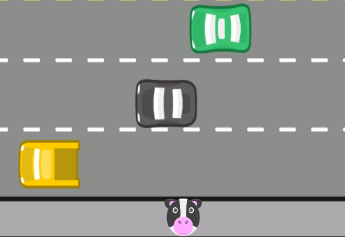
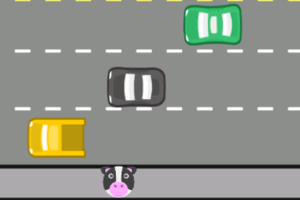
Redimensionando imagens

diff --git a/index.html b/index.html
@@ -15,11 +15,6 @@
       rel="stylesheet"
       href="https://cdn.jsdelivr.net/gh/devicons/devicon@v2.15.1/devicon.min.css"
     />
-    <!-- SwiperJs-->
-    <link
-      rel="stylesheet"
-      href="https://cdn.jsdelivr.net/npm/swiper@9/swiper-bundle.min.css"
-    />
     <!-- CSS -->
     <link rel="stylesheet" href="./css/style.css" />
   </head>
@@ -39,9 +34,9 @@
           <ion-icon class="btn-close hidden" name="close-sharp"></ion-icon>
         </button>
         <ul class="menu">
-          <li><a href="#skills">Conhecimento</a></li>
-          <li><a href="#projects">Projetos</a></li>
-          <li><a href="#contato">Contato</a></li>
+          <li><a href="#conhecimentos">Conhecimento</a></li>
+          <li><a href="#projetos">Projetos</a></li>
+          <li><a href="#contatos">Contato</a></li>
         </ul>
       </nav>
     </header>
@@ -71,117 +66,112 @@
           </article>
         </div>
       </section>
-      <a name="skills">
-        <section class="skills">
-          <h2>Conhecimento</h2>
-          <div class="skills-img">
-            <svg viewBox="0 0 128 128">
+      <section id="conhecimentos" class="skills">
+        <h2>Conhecimento</h2>
+        <div class="skills-img">
+          <svg viewBox="0 0 128 128">
+            <path
+              fill="#E44D26"
+              d="M19.037 113.876L9.032 1.661h109.936l-10.016 112.198-45.019 12.48z"
+            ></path>
+            <path
+              fill="#F16529"
+              d="M64 116.8l36.378-10.086 8.559-95.878H64z"
+            ></path>
+            <path
+              fill="#EBEBEB"
+              d="M64 52.455H45.788L44.53 38.361H64V24.599H29.489l.33 3.692 3.382 37.927H64zm0 35.743l-.061.017-15.327-4.14-.979-10.975H33.816l1.928 21.609 28.193 7.826.063-.017z"
+            ></path>
+            <path
+              fill="#fff"
+              d="M63.952 52.455v13.763h16.947l-1.597 17.849-15.35 4.143v14.319l28.215-7.82.207-2.325 3.234-36.233.335-3.696h-3.708zm0-27.856v13.762h33.244l.276-3.092.628-6.978.329-3.692z"
+            ></path>
+          </svg>
+          <svg viewBox="0 0 128 128">
+            <path
+              fill="#1572B6"
+              d="M18.814 114.123L8.76 1.352h110.48l-10.064 112.754-45.243 12.543-45.119-12.526z"
+            ></path>
+            <path
+              fill="#33A9DC"
+              d="M64.001 117.062l36.559-10.136 8.601-96.354h-45.16v106.49z"
+            ></path>
+            <path
+              fill="#fff"
+              d="M64.001 51.429h18.302l1.264-14.163H64.001V23.435h34.682l-.332 3.711-3.4 38.114h-30.95V51.429z"
+            ></path>
+            <path
+              fill="#EBEBEB"
+              d="M64.083 87.349l-.061.018-15.403-4.159-.985-11.031H33.752l1.937 21.717 28.331 7.863.063-.018v-14.39z"
+            ></path>
+            <path
+              fill="#fff"
+              d="M81.127 64.675l-1.666 18.522-15.426 4.164v14.39l28.354-7.858.208-2.337 2.406-26.881H81.127z"
+            ></path>
+            <path
+              fill="#EBEBEB"
+              d="M64.048 23.435v13.831H30.64l-.277-3.108-.63-7.012-.331-3.711h34.646zm-.047 27.996v13.831H48.792l-.277-3.108-.631-7.012-.33-3.711h16.447z"
+            ></path>
+          </svg>
+          <svg viewBox="0 0 128 128">
+            <path fill="#F0DB4F" d="M1.408 1.408h125.184v125.185H1.408z"></path>
+            <path
+              fill="#323330"
+              d="M116.347 96.736c-.917-5.711-4.641-10.508-15.672-14.981-3.832-1.761-8.104-3.022-9.377-5.926-.452-1.69-.512-2.642-.226-3.665.821-3.32 4.784-4.355 7.925-3.403 2.023.678 3.938 2.237 5.093 4.724 5.402-3.498 5.391-3.475 9.163-5.879-1.381-2.141-2.118-3.129-3.022-4.045-3.249-3.629-7.676-5.498-14.756-5.355l-3.688.477c-3.534.893-6.902 2.748-8.877 5.235-5.926 6.724-4.236 18.492 2.975 23.335 7.104 5.332 17.54 6.545 18.873 11.531 1.297 6.104-4.486 8.08-10.234 7.378-4.236-.881-6.592-3.034-9.139-6.949-4.688 2.713-4.688 2.713-9.508 5.485 1.143 2.499 2.344 3.63 4.26 5.795 9.068 9.198 31.76 8.746 35.83-5.176.165-.478 1.261-3.666.38-8.581zM69.462 58.943H57.753l-.048 30.272c0 6.438.333 12.34-.714 14.149-1.713 3.558-6.152 3.117-8.175 2.427-2.059-1.012-3.106-2.451-4.319-4.485-.333-.584-.583-1.036-.667-1.071l-9.52 5.83c1.583 3.249 3.915 6.069 6.902 7.901 4.462 2.678 10.459 3.499 16.731 2.059 4.082-1.189 7.604-3.652 9.448-7.401 2.666-4.915 2.094-10.864 2.07-17.444.06-10.735.001-21.468.001-32.237z"
+            ></path>
+          </svg>
+          <svg viewBox="0 0 128 128">
+            <g fill="#61DAFB">
+              <circle cx="64" cy="64" r="11.4"></circle>
               <path
-                fill="#E44D26"
-                d="M19.037 113.876L9.032 1.661h109.936l-10.016 112.198-45.019 12.48z"
+                d="M107.3 45.2c-2.2-.8-4.5-1.6-6.9-2.3.6-2.4 1.1-4.8 1.5-7.1 2.1-13.2-.2-22.5-6.6-26.1-1.9-1.1-4-1.6-6.4-1.6-7 0-15.9 5.2-24.9 13.9-9-8.7-17.9-13.9-24.9-13.9-2.4 0-4.5.5-6.4 1.6-6.4 3.7-8.7 13-6.6 26.1.4 2.3.9 4.7 1.5 7.1-2.4.7-4.7 1.4-6.9 2.3C8.2 50 1.4 56.6 1.4 64s6.9 14 19.3 18.8c2.2.8 4.5 1.6 6.9 2.3-.6 2.4-1.1 4.8-1.5 7.1-2.1 13.2.2 22.5 6.6 26.1 1.9 1.1 4 1.6 6.4 1.6 7.1 0 16-5.2 24.9-13.9 9 8.7 17.9 13.9 24.9 13.9 2.4 0 4.5-.5 6.4-1.6 6.4-3.7 8.7-13 6.6-26.1-.4-2.3-.9-4.7-1.5-7.1 2.4-.7 4.7-1.4 6.9-2.3 12.5-4.8 19.3-11.4 19.3-18.8s-6.8-14-19.3-18.8zM92.5 14.7c4.1 2.4 5.5 9.8 3.8 20.3-.3 2.1-.8 4.3-1.4 6.6-5.2-1.2-10.7-2-16.5-2.5-3.4-4.8-6.9-9.1-10.4-13 7.4-7.3 14.9-12.3 21-12.3 1.3 0 2.5.3 3.5.9zM81.3 74c-1.8 3.2-3.9 6.4-6.1 9.6-3.7.3-7.4.4-11.2.4-3.9 0-7.6-.1-11.2-.4-2.2-3.2-4.2-6.4-6-9.6-1.9-3.3-3.7-6.7-5.3-10 1.6-3.3 3.4-6.7 5.3-10 1.8-3.2 3.9-6.4 6.1-9.6 3.7-.3 7.4-.4 11.2-.4 3.9 0 7.6.1 11.2.4 2.2 3.2 4.2 6.4 6 9.6 1.9 3.3 3.7 6.7 5.3 10-1.7 3.3-3.4 6.6-5.3 10zm8.3-3.3c1.5 3.5 2.7 6.9 3.8 10.3-3.4.8-7 1.4-10.8 1.9 1.2-1.9 2.5-3.9 3.6-6 1.2-2.1 2.3-4.2 3.4-6.2zM64 97.8c-2.4-2.6-4.7-5.4-6.9-8.3 2.3.1 4.6.2 6.9.2 2.3 0 4.6-.1 6.9-.2-2.2 2.9-4.5 5.7-6.9 8.3zm-18.6-15c-3.8-.5-7.4-1.1-10.8-1.9 1.1-3.3 2.3-6.8 3.8-10.3 1.1 2 2.2 4.1 3.4 6.1 1.2 2.2 2.4 4.1 3.6 6.1zm-7-25.5c-1.5-3.5-2.7-6.9-3.8-10.3 3.4-.8 7-1.4 10.8-1.9-1.2 1.9-2.5 3.9-3.6 6-1.2 2.1-2.3 4.2-3.4 6.2zM64 30.2c2.4 2.6 4.7 5.4 6.9 8.3-2.3-.1-4.6-.2-6.9-.2-2.3 0-4.6.1-6.9.2 2.2-2.9 4.5-5.7 6.9-8.3zm22.2 21l-3.6-6c3.8.5 7.4 1.1 10.8 1.9-1.1 3.3-2.3 6.8-3.8 10.3-1.1-2.1-2.2-4.2-3.4-6.2zM31.7 35c-1.7-10.5-.3-17.9 3.8-20.3 1-.6 2.2-.9 3.5-.9 6 0 13.5 4.9 21 12.3-3.5 3.8-7 8.2-10.4 13-5.8.5-11.3 1.4-16.5 2.5-.6-2.3-1-4.5-1.4-6.6zM7 64c0-4.7 5.7-9.7 15.7-13.4 2-.8 4.2-1.5 6.4-2.1 1.6 5 3.6 10.3 6 15.6-2.4 5.3-4.5 10.5-6 15.5C15.3 75.6 7 69.6 7 64zm28.5 49.3c-4.1-2.4-5.5-9.8-3.8-20.3.3-2.1.8-4.3 1.4-6.6 5.2 1.2 10.7 2 16.5 2.5 3.4 4.8 6.9 9.1 10.4 13-7.4 7.3-14.9 12.3-21 12.3-1.3 0-2.5-.3-3.5-.9zM96.3 93c1.7 10.5.3 17.9-3.8 20.3-1 .6-2.2.9-3.5.9-6 0-13.5-4.9-21-12.3 3.5-3.8 7-8.2 10.4-13 5.8-.5 11.3-1.4 16.5-2.5.6 2.3 1 4.5 1.4 6.6zm9-15.6c-2 .8-4.2 1.5-6.4 2.1-1.6-5-3.6-10.3-6-15.6 2.4-5.3 4.5-10.5 6-15.5 13.8 4 22.1 10 22.1 15.6 0 4.7-5.8 9.7-15.7 13.4z"
               ></path>
-              <path
-                fill="#F16529"
-                d="M64 116.8l36.378-10.086 8.559-95.878H64z"
-              ></path>
-              <path
-                fill="#EBEBEB"
-                d="M64 52.455H45.788L44.53 38.361H64V24.599H29.489l.33 3.692 3.382 37.927H64zm0 35.743l-.061.017-15.327-4.14-.979-10.975H33.816l1.928 21.609 28.193 7.826.063-.017z"
-              ></path>
-              <path
-                fill="#fff"
-                d="M63.952 52.455v13.763h16.947l-1.597 17.849-15.35 4.143v14.319l28.215-7.82.207-2.325 3.234-36.233.335-3.696h-3.708zm0-27.856v13.762h33.244l.276-3.092.628-6.978.329-3.692z"
-              ></path>
-            </svg>
-            <svg viewBox="0 0 128 128">
-              <path
-                fill="#1572B6"
-                d="M18.814 114.123L8.76 1.352h110.48l-10.064 112.754-45.243 12.543-45.119-12.526z"
-              ></path>
-              <path
-                fill="#33A9DC"
-                d="M64.001 117.062l36.559-10.136 8.601-96.354h-45.16v106.49z"
-              ></path>
-              <path
-                fill="#fff"
-                d="M64.001 51.429h18.302l1.264-14.163H64.001V23.435h34.682l-.332 3.711-3.4 38.114h-30.95V51.429z"
-              ></path>
-              <path
-                fill="#EBEBEB"
-                d="M64.083 87.349l-.061.018-15.403-4.159-.985-11.031H33.752l1.937 21.717 28.331 7.863.063-.018v-14.39z"
-              ></path>
-              <path
-                fill="#fff"
-                d="M81.127 64.675l-1.666 18.522-15.426 4.164v14.39l28.354-7.858.208-2.337 2.406-26.881H81.127z"
-              ></path>
-              <path
-                fill="#EBEBEB"
-                d="M64.048 23.435v13.831H30.64l-.277-3.108-.63-7.012-.331-3.711h34.646zm-.047 27.996v13.831H48.792l-.277-3.108-.631-7.012-.33-3.711h16.447z"
-              ></path>
-            </svg>
-            <svg viewBox="0 0 128 128">
-              <path
-                fill="#F0DB4F"
-                d="M1.408 1.408h125.184v125.185H1.408z"
-              ></path>
-              <path
-                fill="#323330"
-                d="M116.347 96.736c-.917-5.711-4.641-10.508-15.672-14.981-3.832-1.761-8.104-3.022-9.377-5.926-.452-1.69-.512-2.642-.226-3.665.821-3.32 4.784-4.355 7.925-3.403 2.023.678 3.938 2.237 5.093 4.724 5.402-3.498 5.391-3.475 9.163-5.879-1.381-2.141-2.118-3.129-3.022-4.045-3.249-3.629-7.676-5.498-14.756-5.355l-3.688.477c-3.534.893-6.902 2.748-8.877 5.235-5.926 6.724-4.236 18.492 2.975 23.335 7.104 5.332 17.54 6.545 18.873 11.531 1.297 6.104-4.486 8.08-10.234 7.378-4.236-.881-6.592-3.034-9.139-6.949-4.688 2.713-4.688 2.713-9.508 5.485 1.143 2.499 2.344 3.63 4.26 5.795 9.068 9.198 31.76 8.746 35.83-5.176.165-.478 1.261-3.666.38-8.581zM69.462 58.943H57.753l-.048 30.272c0 6.438.333 12.34-.714 14.149-1.713 3.558-6.152 3.117-8.175 2.427-2.059-1.012-3.106-2.451-4.319-4.485-.333-.584-.583-1.036-.667-1.071l-9.52 5.83c1.583 3.249 3.915 6.069 6.902 7.901 4.462 2.678 10.459 3.499 16.731 2.059 4.082-1.189 7.604-3.652 9.448-7.401 2.666-4.915 2.094-10.864 2.07-17.444.06-10.735.001-21.468.001-32.237z"
-              ></path>
-            </svg>
-            <svg viewBox="0 0 128 128">
-              <g fill="#61DAFB">
-                <circle cx="64" cy="64" r="11.4"></circle>
-                <path
-                  d="M107.3 45.2c-2.2-.8-4.5-1.6-6.9-2.3.6-2.4 1.1-4.8 1.5-7.1 2.1-13.2-.2-22.5-6.6-26.1-1.9-1.1-4-1.6-6.4-1.6-7 0-15.9 5.2-24.9 13.9-9-8.7-17.9-13.9-24.9-13.9-2.4 0-4.5.5-6.4 1.6-6.4 3.7-8.7 13-6.6 26.1.4 2.3.9 4.7 1.5 7.1-2.4.7-4.7 1.4-6.9 2.3C8.2 50 1.4 56.6 1.4 64s6.9 14 19.3 18.8c2.2.8 4.5 1.6 6.9 2.3-.6 2.4-1.1 4.8-1.5 7.1-2.1 13.2.2 22.5 6.6 26.1 1.9 1.1 4 1.6 6.4 1.6 7.1 0 16-5.2 24.9-13.9 9 8.7 17.9 13.9 24.9 13.9 2.4 0 4.5-.5 6.4-1.6 6.4-3.7 8.7-13 6.6-26.1-.4-2.3-.9-4.7-1.5-7.1 2.4-.7 4.7-1.4 6.9-2.3 12.5-4.8 19.3-11.4 19.3-18.8s-6.8-14-19.3-18.8zM92.5 14.7c4.1 2.4 5.5 9.8 3.8 20.3-.3 2.1-.8 4.3-1.4 6.6-5.2-1.2-10.7-2-16.5-2.5-3.4-4.8-6.9-9.1-10.4-13 7.4-7.3 14.9-12.3 21-12.3 1.3 0 2.5.3 3.5.9zM81.3 74c-1.8 3.2-3.9 6.4-6.1 9.6-3.7.3-7.4.4-11.2.4-3.9 0-7.6-.1-11.2-.4-2.2-3.2-4.2-6.4-6-9.6-1.9-3.3-3.7-6.7-5.3-10 1.6-3.3 3.4-6.7 5.3-10 1.8-3.2 3.9-6.4 6.1-9.6 3.7-.3 7.4-.4 11.2-.4 3.9 0 7.6.1 11.2.4 2.2 3.2 4.2 6.4 6 9.6 1.9 3.3 3.7 6.7 5.3 10-1.7 3.3-3.4 6.6-5.3 10zm8.3-3.3c1.5 3.5 2.7 6.9 3.8 10.3-3.4.8-7 1.4-10.8 1.9 1.2-1.9 2.5-3.9 3.6-6 1.2-2.1 2.3-4.2 3.4-6.2zM64 97.8c-2.4-2.6-4.7-5.4-6.9-8.3 2.3.1 4.6.2 6.9.2 2.3 0 4.6-.1 6.9-.2-2.2 2.9-4.5 5.7-6.9 8.3zm-18.6-15c-3.8-.5-7.4-1.1-10.8-1.9 1.1-3.3 2.3-6.8 3.8-10.3 1.1 2 2.2 4.1 3.4 6.1 1.2 2.2 2.4 4.1 3.6 6.1zm-7-25.5c-1.5-3.5-2.7-6.9-3.8-10.3 3.4-.8 7-1.4 10.8-1.9-1.2 1.9-2.5 3.9-3.6 6-1.2 2.1-2.3 4.2-3.4 6.2zM64 30.2c2.4 2.6 4.7 5.4 6.9 8.3-2.3-.1-4.6-.2-6.9-.2-2.3 0-4.6.1-6.9.2 2.2-2.9 4.5-5.7 6.9-8.3zm22.2 21l-3.6-6c3.8.5 7.4 1.1 10.8 1.9-1.1 3.3-2.3 6.8-3.8 10.3-1.1-2.1-2.2-4.2-3.4-6.2zM31.7 35c-1.7-10.5-.3-17.9 3.8-20.3 1-.6 2.2-.9 3.5-.9 6 0 13.5 4.9 21 12.3-3.5 3.8-7 8.2-10.4 13-5.8.5-11.3 1.4-16.5 2.5-.6-2.3-1-4.5-1.4-6.6zM7 64c0-4.7 5.7-9.7 15.7-13.4 2-.8 4.2-1.5 6.4-2.1 1.6 5 3.6 10.3 6 15.6-2.4 5.3-4.5 10.5-6 15.5C15.3 75.6 7 69.6 7 64zm28.5 49.3c-4.1-2.4-5.5-9.8-3.8-20.3.3-2.1.8-4.3 1.4-6.6 5.2 1.2 10.7 2 16.5 2.5 3.4 4.8 6.9 9.1 10.4 13-7.4 7.3-14.9 12.3-21 12.3-1.3 0-2.5-.3-3.5-.9zM96.3 93c1.7 10.5.3 17.9-3.8 20.3-1 .6-2.2.9-3.5.9-6 0-13.5-4.9-21-12.3 3.5-3.8 7-8.2 10.4-13 5.8-.5 11.3-1.4 16.5-2.5.6 2.3 1 4.5 1.4 6.6zm9-15.6c-2 .8-4.2 1.5-6.4 2.1-1.6-5-3.6-10.3-6-15.6 2.4-5.3 4.5-10.5 6-15.5 13.8 4 22.1 10 22.1 15.6 0 4.7-5.8 9.7-15.7 13.4z"
-                ></path>
-              </g>
-            </svg>
-            <svg viewBox="0 0 128 128">
-              <path
-                fill="#83CD29"
-                d="M112.771 30.334L68.674 4.729c-2.781-1.584-6.402-1.584-9.205 0L14.901 30.334C12.031 31.985 10 35.088 10 38.407v51.142c0 3.319 2.084 6.423 4.954 8.083l11.775 6.688c5.628 2.772 7.617 2.772 10.178 2.772 8.333 0 13.093-5.039 13.093-13.828v-50.49c0-.713-.371-1.774-1.071-1.774h-5.623C42.594 41 41 42.061 41 42.773v50.49c0 3.896-3.524 7.773-10.11 4.48L18.723 90.73c-.424-.23-.723-.693-.723-1.181V38.407c0-.482.555-.966.982-1.213l44.424-25.561c.415-.235 1.025-.235 1.439 0l43.882 25.555c.42.253.272.722.272 1.219v51.142c0 .488.183.963-.232 1.198l-44.086 25.576c-.378.227-.847.227-1.261 0l-11.307-6.749c-.341-.198-.746-.269-1.073-.086-3.146 1.783-3.726 2.02-6.677 3.043-.726.253-1.797.692.41 1.929l14.798 8.754a9.294 9.294 0 004.647 1.246c1.642 0 3.25-.426 4.667-1.246l43.885-25.582c2.87-1.672 4.23-4.764 4.23-8.083V38.407c0-3.319-1.36-6.414-4.229-8.073zM77.91 81.445c-11.726 0-14.309-3.235-15.17-9.066-.1-.628-.633-1.379-1.272-1.379h-5.731c-.709 0-1.279.86-1.279 1.566 0 7.466 4.059 16.512 23.453 16.512 14.039 0 22.088-5.455 22.088-15.109 0-9.572-6.467-12.084-20.082-13.886-13.762-1.819-15.16-2.738-15.16-5.962 0-2.658 1.184-6.203 11.374-6.203 9.105 0 12.461 1.954 13.842 8.091.118.577.645.991 1.24.991h5.754c.354 0 .692-.143.94-.396.24-.272.367-.613.335-.979-.891-10.568-7.912-15.493-22.112-15.493-12.631 0-20.166 5.334-20.166 14.275 0 9.698 7.497 12.378 19.622 13.577 14.505 1.422 15.633 3.542 15.633 6.395 0 4.955-3.978 7.066-13.309 7.066z"
-              ></path>
-            </svg>
-            <svg viewBox="0 0 128 128">
-              <defs>
-                <linearGradient
-                  id="sqlite-original-a"
-                  x1="-15.615"
-                  x2="-6.741"
-                  y1="-9.108"
-                  y2="-9.108"
-                  gradientTransform="rotate(90 -90.486 64.634) scale(9.2712)"
-                  gradientUnits="userSpaceOnUse"
-                >
-                  <stop stop-color="#95d7f4" offset="0"></stop>
-                  <stop stop-color="#0f7fcc" offset=".92"></stop>
-                  <stop stop-color="#0f7fcc" offset="1"></stop>
-                </linearGradient>
-              </defs>
-              <path
-                d="M69.5 99.176c-.059-.73-.094-1.2-.094-1.2S67.2 83.087 64.57 78.642c-.414-.707.043-3.594 1.207-7.88.68 1.169 3.54 6.192 4.118 7.81.648 1.824.78 2.347.78 2.347s-1.57-8.082-4.144-12.797a162.286 162.286 0 012.004-6.265c.973 1.71 3.313 5.859 3.828 7.3.102.293.192.543.27.774.023-.137.05-.274.074-.414-.59-2.504-1.75-6.86-3.336-10.082 3.52-18.328 15.531-42.824 27.84-53.754H16.9c-5.387 0-9.789 4.406-9.789 9.789v88.57c0 5.383 4.406 9.789 9.79 9.789h52.897a118.657 118.657 0 01-.297-14.652"
-                fill="#0b7fcc"
-              ></path>
-              <path
-                d="M65.777 70.762c.68 1.168 3.54 6.188 4.117 7.809.649 1.824.781 2.347.781 2.347s-1.57-8.082-4.144-12.797a164.535 164.535 0 012.004-6.27c.887 1.567 2.922 5.169 3.652 6.872l.082-.961c-.648-2.496-1.633-5.766-2.898-8.328 3.242-16.871 13.68-38.97 24.926-50.898H16.899a6.94 6.94 0 00-6.934 6.933v82.11c17.527-6.731 38.664-12.88 56.855-12.614-.672-2.605-1.441-4.96-2.25-6.324-.414-.707.043-3.597 1.207-7.879"
-                fill="url(#sqlite-original-a)"
-              ></path>
-              <path
-                d="M115.95 2.781c-5.5-4.906-12.164-2.933-18.734 2.899a44.347 44.347 0 00-2.914 2.859c-11.25 11.926-21.684 34.023-24.926 50.895 1.262 2.563 2.25 5.832 2.894 8.328.168.64.32 1.242.442 1.754.285 1.207.437 1.996.437 1.996s-.101-.383-.515-1.582c-.078-.23-.168-.484-.27-.773-.043-.125-.105-.274-.172-.434-.734-1.703-2.765-5.305-3.656-6.867-.762 2.25-1.437 4.36-2.004 6.265 2.578 4.715 4.149 12.797 4.149 12.797s-.137-.523-.782-2.347c-.578-1.621-3.441-6.64-4.117-7.809-1.164 4.281-1.625 7.172-1.207 7.88.809 1.362 1.574 3.722 2.25 6.323 1.524 5.867 2.586 13.012 2.586 13.012s.031.469.094 1.2a118.653 118.653 0 00.297 14.651c.504 6.11 1.453 11.363 2.664 14.172l.828-.449c-1.781-5.535-2.504-12.793-2.188-21.156.48-12.793 3.422-28.215 8.856-44.289 9.191-24.27 21.938-43.738 33.602-53.035-10.633 9.602-25.023 40.684-29.332 52.195-4.82 12.891-8.238 24.984-10.301 36.574 3.55-10.863 15.047-15.53 15.047-15.53s5.637-6.958 12.227-16.888c-3.95.903-10.43 2.442-12.598 3.352-3.2 1.344-4.067 1.8-4.067 1.8s10.371-6.312 19.27-9.171c12.234-19.27 25.562-46.648 12.141-58.621"
-                fill="#003956"
-              ></path>
-            </svg>
-            <svg viewBox="0 0 128 128">
-              <path
-                fill="#F34F29"
-                d="M124.737 58.378L69.621 3.264c-3.172-3.174-8.32-3.174-11.497 0L46.68 14.71l14.518 14.518c3.375-1.139 7.243-.375 9.932 2.314 2.703 2.706 3.461 6.607 2.294 9.993l13.992 13.993c3.385-1.167 7.292-.413 9.994 2.295 3.78 3.777 3.78 9.9 0 13.679a9.673 9.673 0 01-13.683 0 9.677 9.677 0 01-2.105-10.521L68.574 47.933l-.002 34.341a9.708 9.708 0 012.559 1.828c3.778 3.777 3.778 9.898 0 13.683-3.779 3.777-9.904 3.777-13.679 0-3.778-3.784-3.778-9.905 0-13.683a9.65 9.65 0 013.167-2.11V47.333a9.581 9.581 0 01-3.167-2.111c-2.862-2.86-3.551-7.06-2.083-10.576L41.056 20.333 3.264 58.123a8.133 8.133 0 000 11.5l55.117 55.114c3.174 3.174 8.32 3.174 11.499 0l54.858-54.858a8.135 8.135 0 00-.001-11.501z"
-              ></path>
-            </svg>
-          </div>
-        </section>
-      </a>
-      <section class="projects">
+            </g>
+          </svg>
+          <svg viewBox="0 0 128 128">
+            <path
+              fill="#83CD29"
+              d="M112.771 30.334L68.674 4.729c-2.781-1.584-6.402-1.584-9.205 0L14.901 30.334C12.031 31.985 10 35.088 10 38.407v51.142c0 3.319 2.084 6.423 4.954 8.083l11.775 6.688c5.628 2.772 7.617 2.772 10.178 2.772 8.333 0 13.093-5.039 13.093-13.828v-50.49c0-.713-.371-1.774-1.071-1.774h-5.623C42.594 41 41 42.061 41 42.773v50.49c0 3.896-3.524 7.773-10.11 4.48L18.723 90.73c-.424-.23-.723-.693-.723-1.181V38.407c0-.482.555-.966.982-1.213l44.424-25.561c.415-.235 1.025-.235 1.439 0l43.882 25.555c.42.253.272.722.272 1.219v51.142c0 .488.183.963-.232 1.198l-44.086 25.576c-.378.227-.847.227-1.261 0l-11.307-6.749c-.341-.198-.746-.269-1.073-.086-3.146 1.783-3.726 2.02-6.677 3.043-.726.253-1.797.692.41 1.929l14.798 8.754a9.294 9.294 0 004.647 1.246c1.642 0 3.25-.426 4.667-1.246l43.885-25.582c2.87-1.672 4.23-4.764 4.23-8.083V38.407c0-3.319-1.36-6.414-4.229-8.073zM77.91 81.445c-11.726 0-14.309-3.235-15.17-9.066-.1-.628-.633-1.379-1.272-1.379h-5.731c-.709 0-1.279.86-1.279 1.566 0 7.466 4.059 16.512 23.453 16.512 14.039 0 22.088-5.455 22.088-15.109 0-9.572-6.467-12.084-20.082-13.886-13.762-1.819-15.16-2.738-15.16-5.962 0-2.658 1.184-6.203 11.374-6.203 9.105 0 12.461 1.954 13.842 8.091.118.577.645.991 1.24.991h5.754c.354 0 .692-.143.94-.396.24-.272.367-.613.335-.979-.891-10.568-7.912-15.493-22.112-15.493-12.631 0-20.166 5.334-20.166 14.275 0 9.698 7.497 12.378 19.622 13.577 14.505 1.422 15.633 3.542 15.633 6.395 0 4.955-3.978 7.066-13.309 7.066z"
+            ></path>
+          </svg>
+          <svg viewBox="0 0 128 128">
+            <defs>
+              <linearGradient
+                id="sqlite-original-a"
+                x1="-15.615"
+                x2="-6.741"
+                y1="-9.108"
+                y2="-9.108"
+                gradientTransform="rotate(90 -90.486 64.634) scale(9.2712)"
+                gradientUnits="userSpaceOnUse"
+              >
+                <stop stop-color="#95d7f4" offset="0"></stop>
+                <stop stop-color="#0f7fcc" offset=".92"></stop>
+                <stop stop-color="#0f7fcc" offset="1"></stop>
+              </linearGradient>
+            </defs>
+            <path
+              d="M69.5 99.176c-.059-.73-.094-1.2-.094-1.2S67.2 83.087 64.57 78.642c-.414-.707.043-3.594 1.207-7.88.68 1.169 3.54 6.192 4.118 7.81.648 1.824.78 2.347.78 2.347s-1.57-8.082-4.144-12.797a162.286 162.286 0 012.004-6.265c.973 1.71 3.313 5.859 3.828 7.3.102.293.192.543.27.774.023-.137.05-.274.074-.414-.59-2.504-1.75-6.86-3.336-10.082 3.52-18.328 15.531-42.824 27.84-53.754H16.9c-5.387 0-9.789 4.406-9.789 9.789v88.57c0 5.383 4.406 9.789 9.79 9.789h52.897a118.657 118.657 0 01-.297-14.652"
+              fill="#0b7fcc"
+            ></path>
+            <path
+              d="M65.777 70.762c.68 1.168 3.54 6.188 4.117 7.809.649 1.824.781 2.347.781 2.347s-1.57-8.082-4.144-12.797a164.535 164.535 0 012.004-6.27c.887 1.567 2.922 5.169 3.652 6.872l.082-.961c-.648-2.496-1.633-5.766-2.898-8.328 3.242-16.871 13.68-38.97 24.926-50.898H16.899a6.94 6.94 0 00-6.934 6.933v82.11c17.527-6.731 38.664-12.88 56.855-12.614-.672-2.605-1.441-4.96-2.25-6.324-.414-.707.043-3.597 1.207-7.879"
+              fill="url(#sqlite-original-a)"
+            ></path>
+            <path
+              d="M115.95 2.781c-5.5-4.906-12.164-2.933-18.734 2.899a44.347 44.347 0 00-2.914 2.859c-11.25 11.926-21.684 34.023-24.926 50.895 1.262 2.563 2.25 5.832 2.894 8.328.168.64.32 1.242.442 1.754.285 1.207.437 1.996.437 1.996s-.101-.383-.515-1.582c-.078-.23-.168-.484-.27-.773-.043-.125-.105-.274-.172-.434-.734-1.703-2.765-5.305-3.656-6.867-.762 2.25-1.437 4.36-2.004 6.265 2.578 4.715 4.149 12.797 4.149 12.797s-.137-.523-.782-2.347c-.578-1.621-3.441-6.64-4.117-7.809-1.164 4.281-1.625 7.172-1.207 7.88.809 1.362 1.574 3.722 2.25 6.323 1.524 5.867 2.586 13.012 2.586 13.012s.031.469.094 1.2a118.653 118.653 0 00.297 14.651c.504 6.11 1.453 11.363 2.664 14.172l.828-.449c-1.781-5.535-2.504-12.793-2.188-21.156.48-12.793 3.422-28.215 8.856-44.289 9.191-24.27 21.938-43.738 33.602-53.035-10.633 9.602-25.023 40.684-29.332 52.195-4.82 12.891-8.238 24.984-10.301 36.574 3.55-10.863 15.047-15.53 15.047-15.53s5.637-6.958 12.227-16.888c-3.95.903-10.43 2.442-12.598 3.352-3.2 1.344-4.067 1.8-4.067 1.8s10.371-6.312 19.27-9.171c12.234-19.27 25.562-46.648 12.141-58.621"
+              fill="#003956"
+            ></path>
+          </svg>
+          <svg viewBox="0 0 128 128">
+            <path
+              fill="#F34F29"
+              d="M124.737 58.378L69.621 3.264c-3.172-3.174-8.32-3.174-11.497 0L46.68 14.71l14.518 14.518c3.375-1.139 7.243-.375 9.932 2.314 2.703 2.706 3.461 6.607 2.294 9.993l13.992 13.993c3.385-1.167 7.292-.413 9.994 2.295 3.78 3.777 3.78 9.9 0 13.679a9.673 9.673 0 01-13.683 0 9.677 9.677 0 01-2.105-10.521L68.574 47.933l-.002 34.341a9.708 9.708 0 012.559 1.828c3.778 3.777 3.778 9.898 0 13.683-3.779 3.777-9.904 3.777-13.679 0-3.778-3.784-3.778-9.905 0-13.683a9.65 9.65 0 013.167-2.11V47.333a9.581 9.581 0 01-3.167-2.111c-2.862-2.86-3.551-7.06-2.083-10.576L41.056 20.333 3.264 58.123a8.133 8.133 0 000 11.5l55.117 55.114c3.174 3.174 8.32 3.174 11.499 0l54.858-54.858a8.135 8.135 0 00-.001-11.501z"
+            ></path>
+          </svg>
+        </div>
+      </section>
+      <section id="projetos" class="projects">
         <h2>Projetos</h2>
         <div class="projects-container">
           <div class="projects-card">
@@ -208,7 +198,7 @@
             </div>
           </div>
           <div class="projects-card">
-            <img src="assets/pomodoro.png" alt="" />
+            <img src="assets/pomodoropng.png" alt="" />
             <div class="card-description">
               <p class="card-title">Pomodoro 2.0</p>
               <p>Tecnologias: HTML, CSS e Javascript</p>
@@ -251,7 +241,7 @@
             </div>
           </div>
           <div class="projects-card">
-            <img src="assets/spacecreampng.png" alt="" />
+            <img src="assets/spacecream.png" alt="" />
             <div class="card-description">
               <p class="card-title">Space Cream</p>
               <p>Tecnologias: HTML e CSS</p>
@@ -321,46 +311,39 @@
           </div>
         </div>
       </section>
-      <a name="contato">
-        <section class="contact">
-          <h2>Contato</h2>
-          <p>Se gostou do conteúdo, ou tem alguma sugestão entre em contato:</p>
-          <div class="contact-img">
-            <a href="https://github.com/Dev-JoaoVictor" target="_blank">
-              <svg viewBox="0 0 128 128">
-                <g fill="#000">
-                  <path
-                    fill-rule="evenodd"
-                    clip-rule="evenodd"
-                    d="M64 5.103c-33.347 0-60.388 27.035-60.388 60.388 0 26.682 17.303 49.317 41.297 57.303 3.017.56 4.125-1.31 4.125-2.905 0-1.44-.056-6.197-.082-11.243-16.8 3.653-20.345-7.125-20.345-7.125-2.747-6.98-6.705-8.836-6.705-8.836-5.48-3.748.413-3.67.413-3.67 6.063.425 9.257 6.223 9.257 6.223 5.386 9.23 14.127 6.562 17.573 5.02.542-3.903 2.107-6.568 3.834-8.076-13.413-1.525-27.514-6.704-27.514-29.843 0-6.593 2.36-11.98 6.223-16.21-.628-1.52-2.695-7.662.584-15.98 0 0 5.07-1.623 16.61 6.19C53.7 35 58.867 34.327 64 34.304c5.13.023 10.3.694 15.127 2.033 11.526-7.813 16.59-6.19 16.59-6.19 3.287 8.317 1.22 14.46.593 15.98 3.872 4.23 6.215 9.617 6.215 16.21 0 23.194-14.127 28.3-27.574 29.796 2.167 1.874 4.097 5.55 4.097 11.183 0 8.08-.07 14.583-.07 16.572 0 1.607 1.088 3.49 4.148 2.897 23.98-7.994 41.263-30.622 41.263-57.294C124.388 32.14 97.35 5.104 64 5.104z"
-                  ></path>
-                  <path
-                    d="M26.484 91.806c-.133.3-.605.39-1.035.185-.44-.196-.685-.605-.543-.906.13-.31.603-.395 1.04-.188.44.197.69.61.537.91zm2.446 2.729c-.287.267-.85.143-1.232-.28-.396-.42-.47-.983-.177-1.254.298-.266.844-.14 1.24.28.394.426.472.984.17 1.255zM31.312 98.012c-.37.258-.976.017-1.35-.52-.37-.538-.37-1.183.01-1.44.373-.258.97-.025 1.35.507.368.545.368 1.19-.01 1.452zm3.261 3.361c-.33.365-1.036.267-1.552-.23-.527-.487-.674-1.18-.343-1.544.336-.366 1.045-.264 1.564.23.527.486.686 1.18.333 1.543zm4.5 1.951c-.147.473-.825.688-1.51.486-.683-.207-1.13-.76-.99-1.238.14-.477.823-.7 1.512-.485.683.206 1.13.756.988 1.237zm4.943.361c.017.498-.563.91-1.28.92-.723.017-1.308-.387-1.315-.877 0-.503.568-.91 1.29-.924.717-.013 1.306.387 1.306.88zm4.598-.782c.086.485-.413.984-1.126 1.117-.7.13-1.35-.172-1.44-.653-.086-.498.422-.997 1.122-1.126.714-.123 1.354.17 1.444.663zm0 0"
-                  ></path>
-                </g>
-              </svg>
-            </a>
-            <a
-              href="https://www.linkedin.com/in/dev-joaovictor/"
-              target="_blank"
-            >
-              <svg viewBox="0 0 128 128">
+      <section id="contatos" class="contact">
+        <h2>Contato</h2>
+        <p>Se gostou do conteúdo, ou tem alguma sugestão entre em contato:</p>
+        <div class="contact-img">
+          <a href="https://github.com/Dev-JoaoVictor" target="_blank">
+            <svg viewBox="0 0 128 128">
+              <g fill="#000">
                 <path
-                  fill="#0076b2"
-                  d="M116 3H12a8.91 8.91 0 00-9 8.8v104.42a8.91 8.91 0 009 8.78h104a8.93 8.93 0 009-8.81V11.77A8.93 8.93 0 00116 3z"
+                  fill-rule="evenodd"
+                  clip-rule="evenodd"
+                  d="M64 5.103c-33.347 0-60.388 27.035-60.388 60.388 0 26.682 17.303 49.317 41.297 57.303 3.017.56 4.125-1.31 4.125-2.905 0-1.44-.056-6.197-.082-11.243-16.8 3.653-20.345-7.125-20.345-7.125-2.747-6.98-6.705-8.836-6.705-8.836-5.48-3.748.413-3.67.413-3.67 6.063.425 9.257 6.223 9.257 6.223 5.386 9.23 14.127 6.562 17.573 5.02.542-3.903 2.107-6.568 3.834-8.076-13.413-1.525-27.514-6.704-27.514-29.843 0-6.593 2.36-11.98 6.223-16.21-.628-1.52-2.695-7.662.584-15.98 0 0 5.07-1.623 16.61 6.19C53.7 35 58.867 34.327 64 34.304c5.13.023 10.3.694 15.127 2.033 11.526-7.813 16.59-6.19 16.59-6.19 3.287 8.317 1.22 14.46.593 15.98 3.872 4.23 6.215 9.617 6.215 16.21 0 23.194-14.127 28.3-27.574 29.796 2.167 1.874 4.097 5.55 4.097 11.183 0 8.08-.07 14.583-.07 16.572 0 1.607 1.088 3.49 4.148 2.897 23.98-7.994 41.263-30.622 41.263-57.294C124.388 32.14 97.35 5.104 64 5.104z"
                 ></path>
                 <path
-                  fill="#fff"
-                  d="M21.06 48.73h18.11V107H21.06zm9.06-29a10.5 10.5 0 11-10.5 10.49 10.5 10.5 0 0110.5-10.49M50.53 48.73h17.36v8h.24c2.42-4.58 8.32-9.41 17.13-9.41C103.6 47.28 107 59.35 107 75v32H88.89V78.65c0-6.75-.12-15.44-9.41-15.44s-10.87 7.36-10.87 15V107H50.53z"
+                  d="M26.484 91.806c-.133.3-.605.39-1.035.185-.44-.196-.685-.605-.543-.906.13-.31.603-.395 1.04-.188.44.197.69.61.537.91zm2.446 2.729c-.287.267-.85.143-1.232-.28-.396-.42-.47-.983-.177-1.254.298-.266.844-.14 1.24.28.394.426.472.984.17 1.255zM31.312 98.012c-.37.258-.976.017-1.35-.52-.37-.538-.37-1.183.01-1.44.373-.258.97-.025 1.35.507.368.545.368 1.19-.01 1.452zm3.261 3.361c-.33.365-1.036.267-1.552-.23-.527-.487-.674-1.18-.343-1.544.336-.366 1.045-.264 1.564.23.527.486.686 1.18.333 1.543zm4.5 1.951c-.147.473-.825.688-1.51.486-.683-.207-1.13-.76-.99-1.238.14-.477.823-.7 1.512-.485.683.206 1.13.756.988 1.237zm4.943.361c.017.498-.563.91-1.28.92-.723.017-1.308-.387-1.315-.877 0-.503.568-.91 1.29-.924.717-.013 1.306.387 1.306.88zm4.598-.782c.086.485-.413.984-1.126 1.117-.7.13-1.35-.172-1.44-.653-.086-.498.422-.997 1.122-1.126.714-.123 1.354.17 1.444.663zm0 0"
                 ></path>
-              </svg>
-            </a>
-          </div>
-        </section>
-      </a>
+              </g>
+            </svg>
+          </a>
+          <a href="https://www.linkedin.com/in/dev-joaovictor/" target="_blank">
+            <svg viewBox="0 0 128 128">
+              <path
+                fill="#0076b2"
+                d="M116 3H12a8.91 8.91 0 00-9 8.8v104.42a8.91 8.91 0 009 8.78h104a8.93 8.93 0 009-8.81V11.77A8.93 8.93 0 00116 3z"
+              ></path>
+              <path
+                fill="#fff"
+                d="M21.06 48.73h18.11V107H21.06zm9.06-29a10.5 10.5 0 11-10.5 10.49 10.5 10.5 0 0110.5-10.49M50.53 48.73h17.36v8h.24c2.42-4.58 8.32-9.41 17.13-9.41C103.6 47.28 107 59.35 107 75v32H88.89V78.65c0-6.75-.12-15.44-9.41-15.44s-10.87 7.36-10.87 15V107H50.53z"
+              ></path>
+            </svg>
+          </a>
+        </div>
+      </section>
     </main>
-    <script src="https://cdn.jsdelivr.net/npm/swiper@9/swiper-bundle.min.js"></script>
-    <script src="js/carrosel.js"></script>
     <script src="./js/script.js" type="module"></script>
     <script
       type="module"

diff --git a/css/projects.css b/css/projects.css
@@ -1,6 +1,3 @@
-.projects:first{
-  background-color:red;
-}
 .projects-container {
   display: flex;
   justify-content: center;
@@ -17,8 +14,7 @@
 }
 
 .projects-card img {
-  width: 30rem;
-  height: 20rem;
+  width: 100%;
   border-radius: 4px 4px 0 0;
 }
 

diff --git a/css/header.css b/css/header.css
@@ -63,7 +63,7 @@ button {
   margin: 0 1rem;
   padding: 1rem 0;
   color: var(--ft-link);
-  font-size: 2rem;
+  font-size: 1.8rem;
   text-decoration: none;
   transition: ease 0.1s;
 }

diff --git a/css/skills.css b/css/skills.css
@@ -1,6 +1,6 @@
 h2 {
   font-size: 3rem;
-  margin-bottom: 2rem;
+  margin-bottom: 5rem;
 }
 
 .skills-img {
